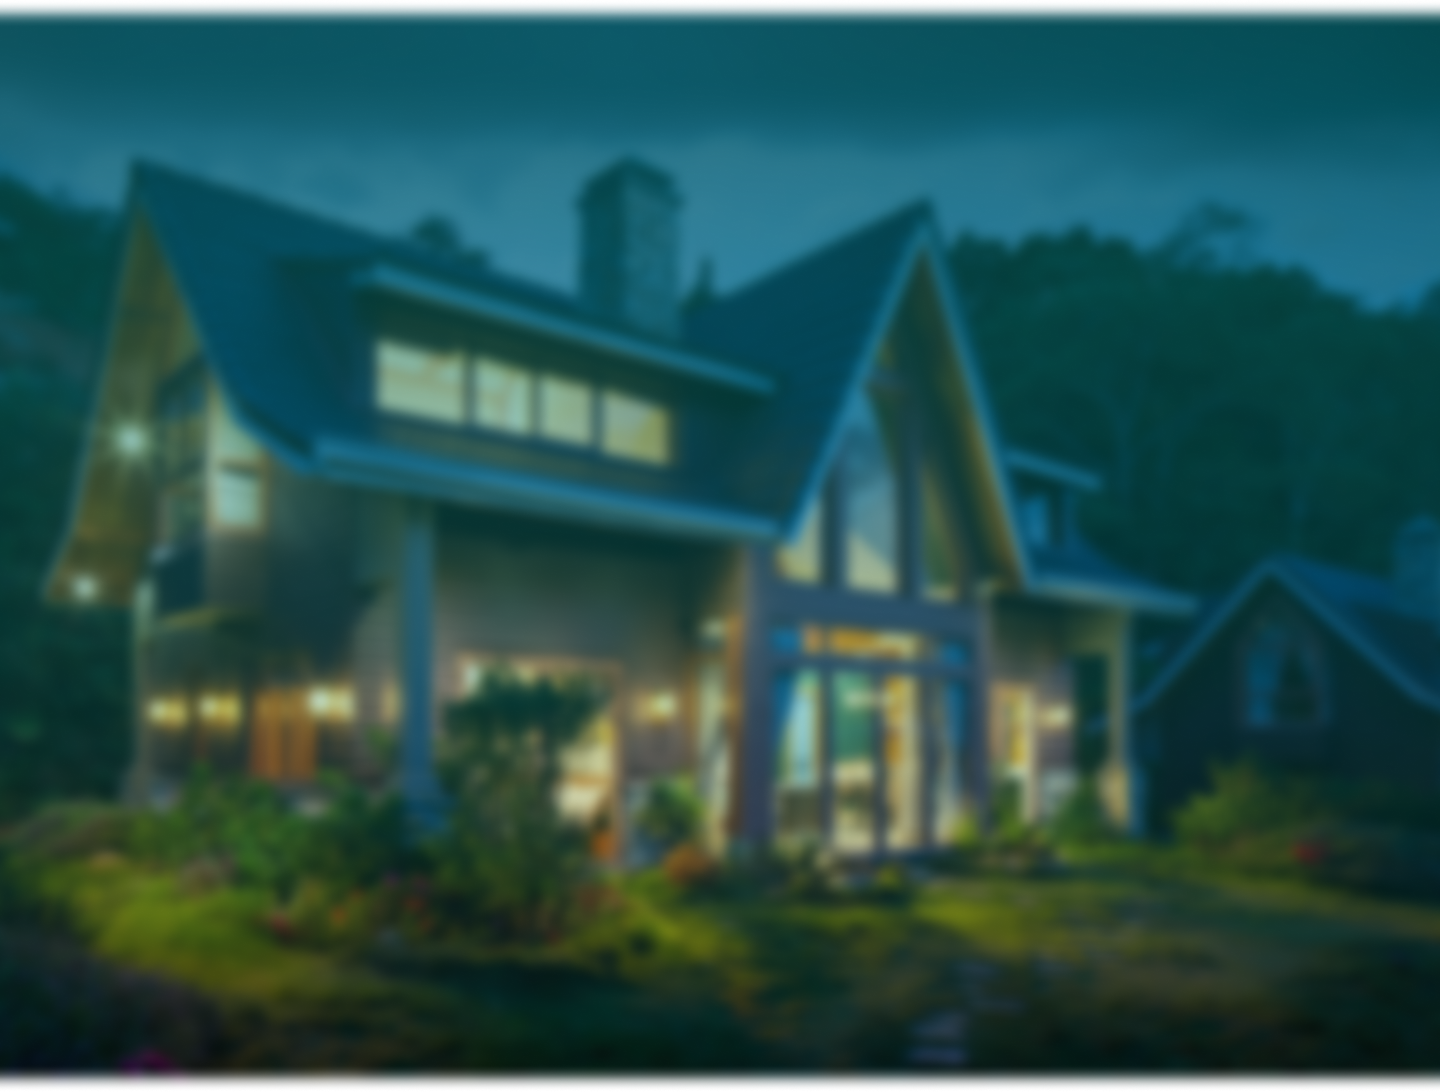
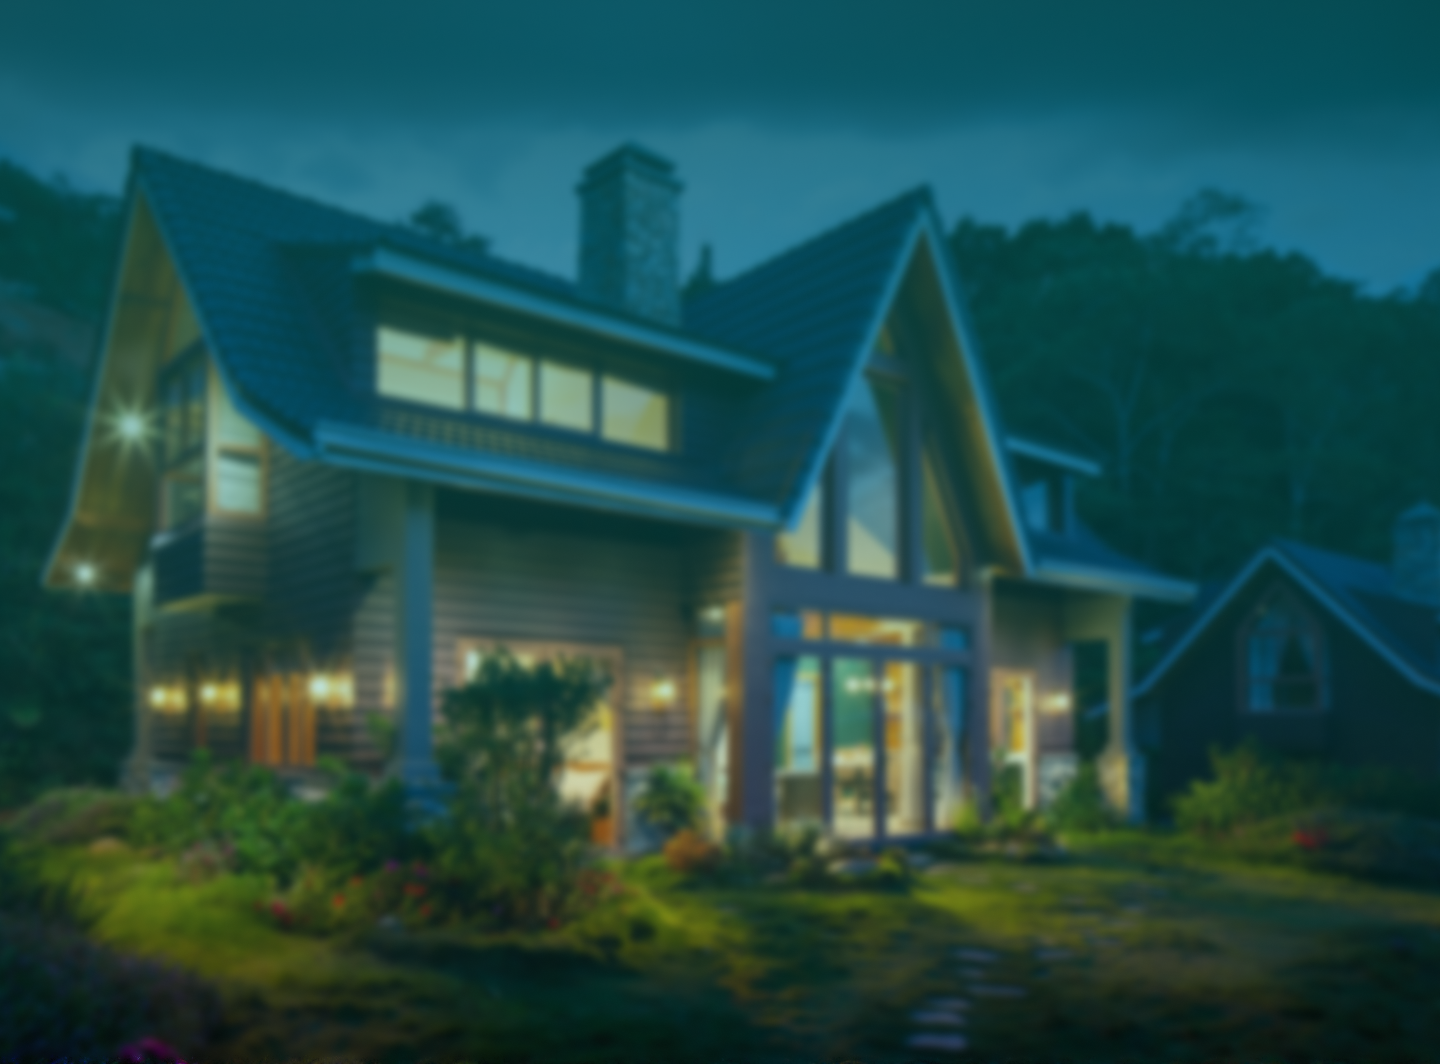
Update background image and fix styling [CA-04-hotfix] (#35)

diff --git a/styles/pages/Login.scss b/styles/pages/Login.scss
@@ -7,14 +7,6 @@
   overflow: hidden;
   flex: 1;
 
-  .background-image {
-    object-fit: cover;
-    position: absolute;
-    z-index: -5;
-    width: 100%;
-    height: 105%;
-  }
-
   .btn {
     margin: 20px 0;
   }

diff --git a/styles/pages/Home.scss b/styles/pages/Home.scss
@@ -10,13 +10,4 @@
   .container {
     max-width: 1000px;
   }
-
-  .background-image {
-    object-fit: cover;
-    position: absolute;
-    z-index: -5;
-    width: 100%;
-    height: 105%;
-    top: -1em;
-  }
 }

diff --git a/styles/global.scss b/styles/global.scss
@@ -376,3 +376,11 @@ a {
     border-color: #badbcc;
   }
 }
+
+.background-image {
+  position: absolute;
+  z-index: -5;
+  width: 100%;
+  height: 100%;
+  object-fit: cover;
+}
